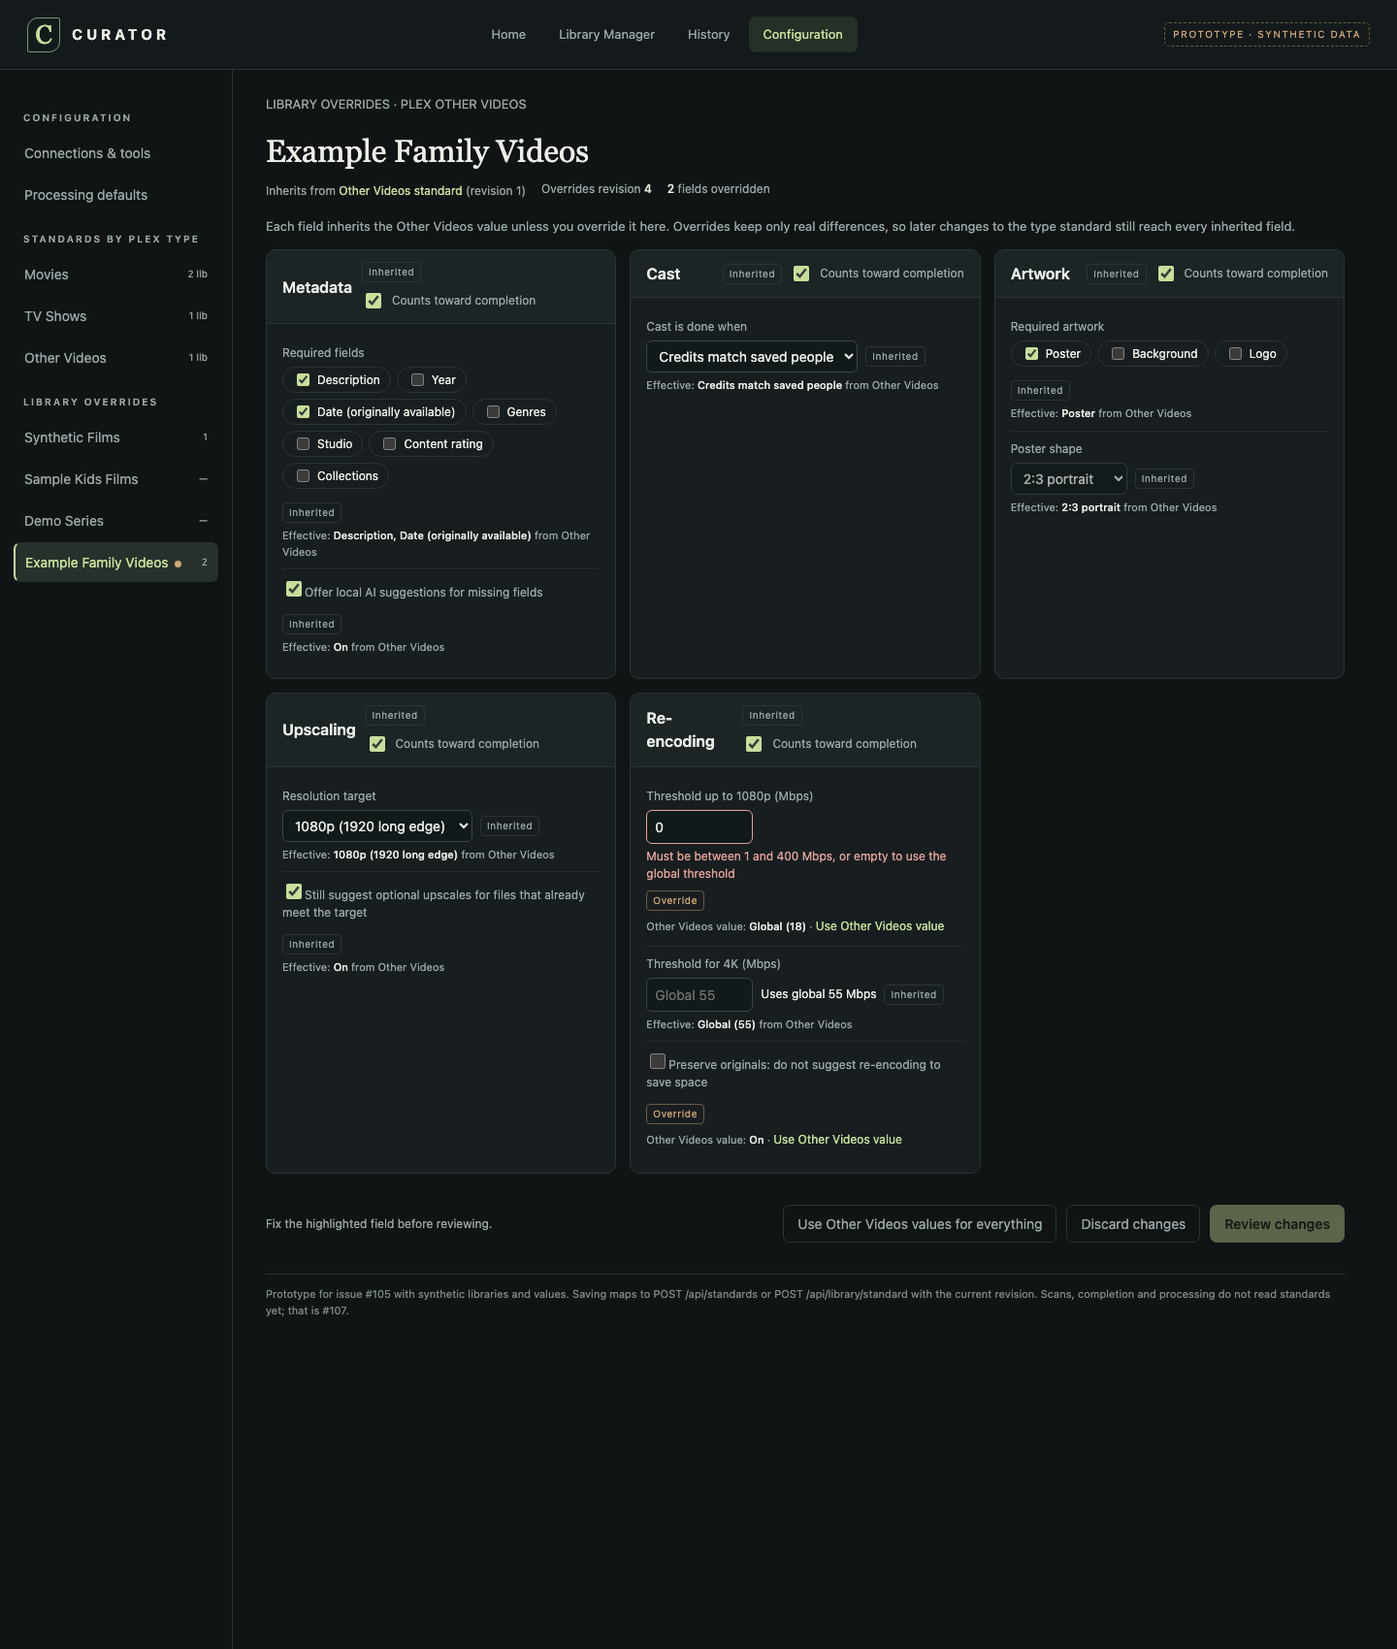
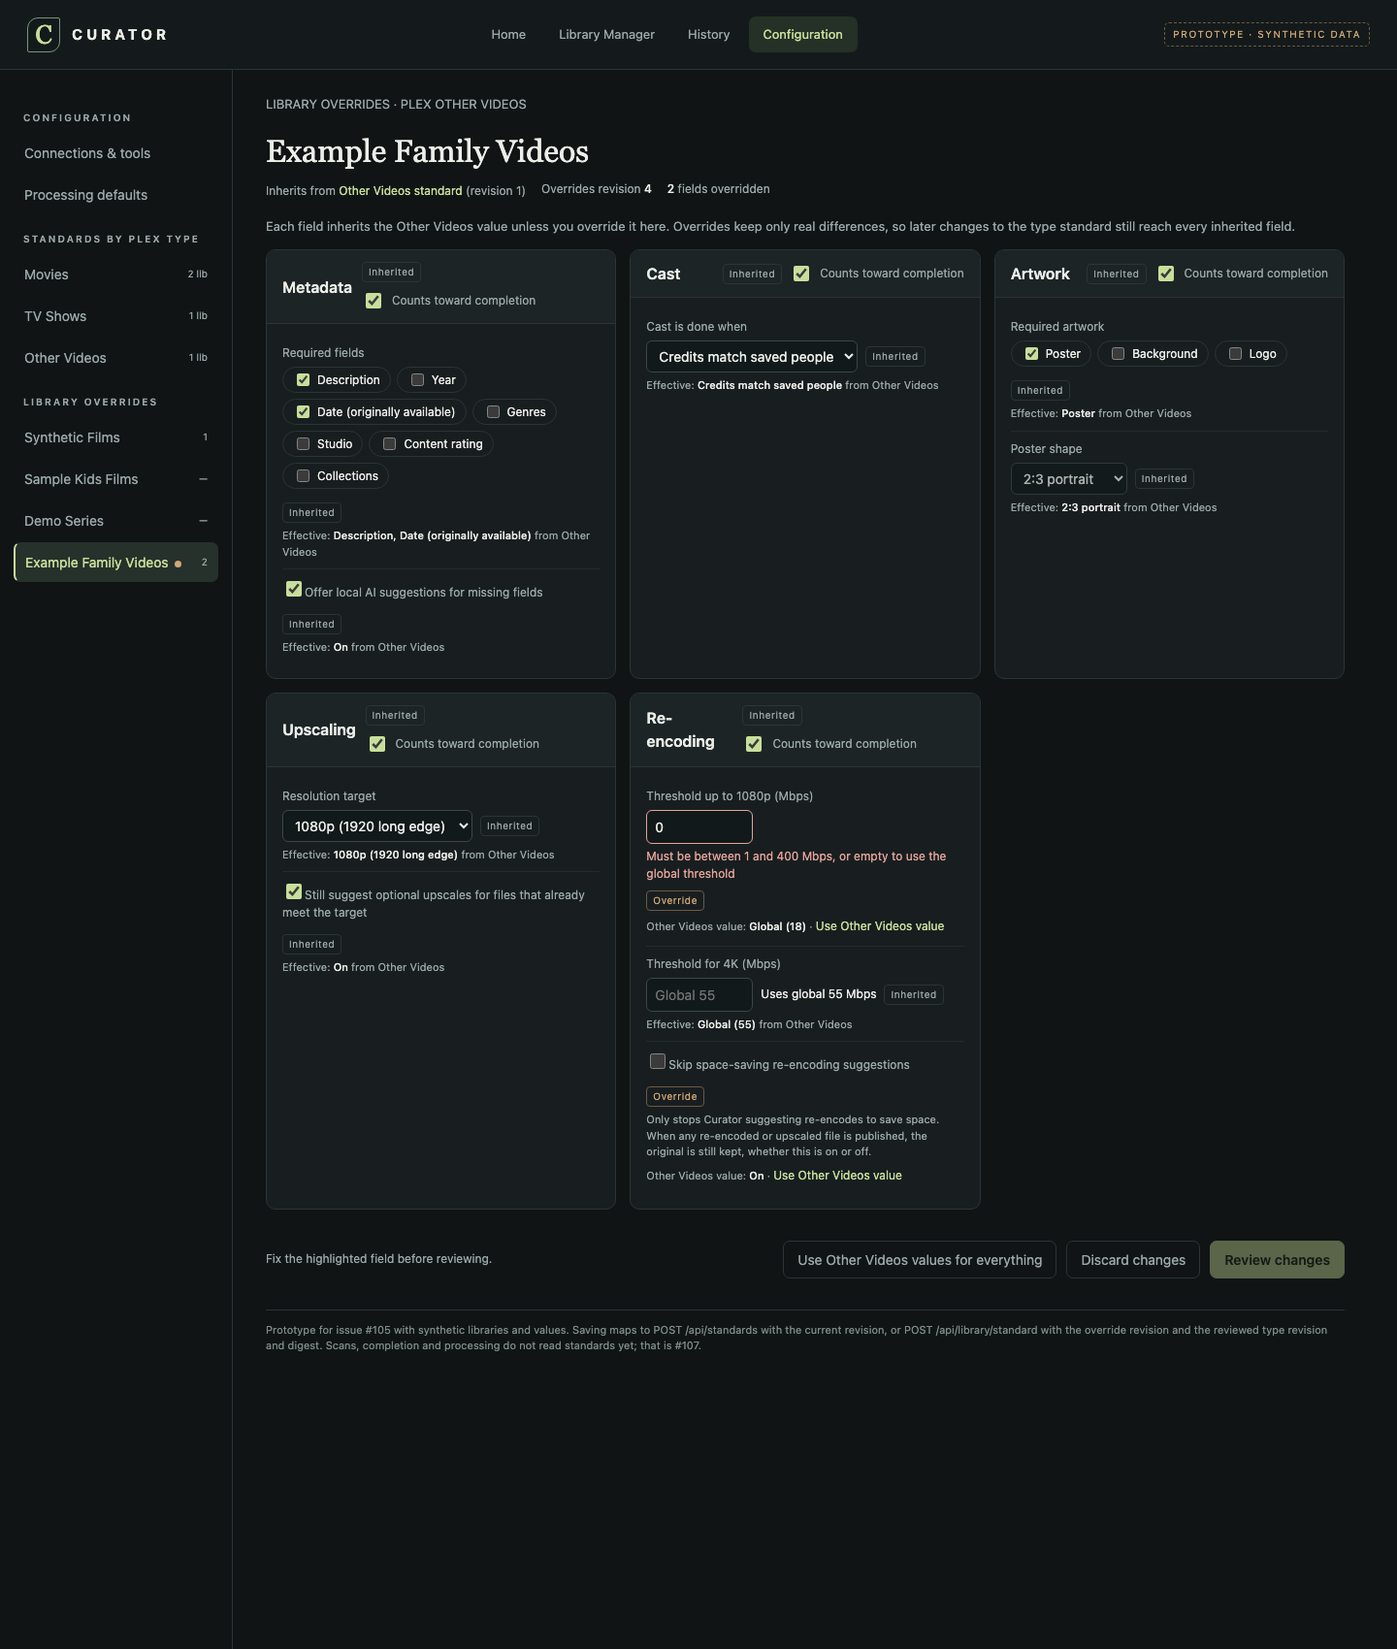
Standards design: separate space-saving suggestions from retention; atomic inherited-standard check on library save (#105)
Addresses Codex review of e14da07: relabel encoding.preserve_originals as
'Skip space-saving re-encoding suggestions' (originals are always retained on
publication), and require the library override save to carry and atomically
check the reviewed type kind, revision and digest, with a libconflict state.

Changed region(s): [[0.1875, 0.6235, 0.9688, 0.8106], [0.5625, 0.6235, 0.5938, 0.6547]]

diff --git a/docs/designs/v2-standards-20261120/prototype.html b/docs/designs/v2-standards-20261120/prototype.html
@@ -70,7 +70,7 @@ const DIMS={
  cast:{title:'Cast',explain:'Credits: Plex credits are present. Known people: credits are matched to people saved in Curator, with portraits.',fields:{mode:{label:'Cast is done when',type:'choice',options:{credits:'Credits are present',known_people:'Credits match saved people'}}}},
  artwork:{title:'Artwork',explain:'Artwork Curator should find or create. Posters are 2:3 for every library type; backgrounds stay 16:9.',fields:{required:{label:'Required artwork',type:'multi',options:ART},poster_ratio:{label:'Poster shape',type:'choice',options:{'2:3':'2:3 portrait'},fixed:true}}},
  upscaling:{title:'Upscaling',explain:'The target is a resolution a finished file should reach. It is not a scale: how much the Topaz filter enlarges the source (1×, 2× or 4×, relative to the source) is a processing default for each library, and the 4096 × 2160 output ceiling still applies.',fields:{target:{label:'Resolution target',type:'choice',options:{'1080':'1080p (1920 long edge)','2160':'2160p (3840 long edge)'}},suggest_when_met:{label:'Still suggest optional upscales for files that already meet the target',type:'bool'}}},
- encoding:{title:'Re-encoding',explain:'A file is suggested for re-encoding when its bitrate is above the threshold. Empty uses the global threshold in Connections & tools.',fields:{max_mbps_1080:{label:'Threshold up to 1080p (Mbps)',type:'mbps',global:'max_mbps_1080'},max_mbps_4k:{label:'Threshold for 4K (Mbps)',type:'mbps',global:'max_mbps_4k'},preserve_originals:{label:'Preserve originals: do not suggest re-encoding to save space',type:'bool'}}},
+ encoding:{title:'Re-encoding',explain:'A file is suggested for re-encoding when its bitrate is above the threshold. Empty uses the global threshold in Connections & tools.',fields:{max_mbps_1080:{label:'Threshold up to 1080p (Mbps)',type:'mbps',global:'max_mbps_1080'},max_mbps_4k:{label:'Threshold for 4K (Mbps)',type:'mbps',global:'max_mbps_4k'},preserve_originals:{label:'Skip space-saving re-encoding suggestions',type:'bool',help:'Only stops Curator suggesting re-encodes to save space. When any re-encoded or upscaled file is published, the original is still kept, whether this is on or off.'}}},
 };
 // ---- Prototype state ----
 let view={page:'type',kind:'movie'},draft=null,base=null,phase='edit',message=null,errors={},pendingNav=null;
@@ -120,6 +120,7 @@ function typePage(main){
   for(const [f,spec] of Object.entries(dim.fields)){
    const overriders=libs.filter(l=>l.overrides[d]&&f in l.overrides[d]);
    body.append(h('div',{class:'field'},spec.type==='bool'?null:h('label',{},spec.label),h('div',{class:'row'},control(d,f,spec,draft[d][f],v=>{draft[d][f]=v;validate();render();},phase!=='edit'),changed(f)?h('span',{class:'tag changed'},'Changed'):null),
+    spec.help?h('div',{class:'effective'},spec.help):null,
     overriders.length?h('div',{class:'effective'},'Overridden by ',h('b',{},overriders.map(l=>l.title).join(', ')),'; changes here do not reach them for this field.'):null));
   }
   card.append(body);grid.append(card);
@@ -144,6 +145,7 @@ function libPage(main){
   if(own('enabled'))body.append(h('div',{class:'effective'},LABELS[kind]+' value: '+(typeVals[d].enabled?'counts toward completion':'not part of done')+' · ',h('button',{class:'link',disabled:phase!=='edit',onclick:()=>reset('enabled')},'Use '+LABELS[kind]+' value')));
   for(const [f,spec] of Object.entries(dim.fields)){
    body.append(h('div',{class:'field'},spec.type==='bool'?null:h('label',{},spec.label),h('div',{class:'row'},control(d,f,spec,eff[d][f],v=>setOwn(f,v),phase!=='edit'),tag(f)),
+    spec.help?h('div',{class:'effective'},spec.help):null,
     own(f)?h('div',{class:'effective'},LABELS[kind]+' value: ',h('b',{},show(typeVals[d][f],spec)),' · ',h('button',{class:'link',disabled:phase!=='edit',onclick:()=>reset(f)},'Use '+LABELS[kind]+' value')):h('div',{class:'effective'},'Effective: ',h('b',{},show(eff[d][f],spec)),' from '+LABELS[kind])));
   }
   card.append(body);grid.append(card);
@@ -154,7 +156,7 @@ function libPage(main){
 function banners(main){
  if(message)main.append(message());
  if(phase==='review'){const rows=changes(),lib=view.page==='lib'?currentLib():null,reach=view.page==='type'?libsOf(view.kind):[];
-  main.append(h('section',{class:'panel'},h('h2',{},'Review changes before saving'),h('p',{class:'sub'},view.page==='type'?'Saving creates revision '+(server.types[view.kind].revision+1)+'. It applies to '+reach.length+' librar'+(reach.length===1?'y':'ies')+' except where a library overrides that field. Nothing is processed or published by saving.':'Saving creates override revision '+(lib.revision+1)+' for '+lib.title+' only. Nothing is processed or published by saving.'),
+  main.append(h('section',{class:'panel'},h('h2',{},'Review changes before saving'),h('p',{class:'sub'},view.page==='type'?'Saving creates revision '+(server.types[view.kind].revision+1)+'. It applies to '+reach.length+' librar'+(reach.length===1?'y':'ies')+' except where a library overrides that field. Nothing is processed or published by saving.':'Saving creates override revision '+(lib.revision+1)+' for '+lib.title+' only, reviewed against the '+LABELS[lib.kind]+' standard at revision '+server.types[lib.kind].revision+'. If that standard changes before you save, nothing is saved and you review again. Nothing is processed or published by saving.'),
    h('table',{},h('thead',{},h('tr',{},h('th',{},'Field'),h('th',{},'Before'),h('th',{},'After'),view.page==='type'?h('th',{},'Libraries affected'):h('th',{},'Source'))),h('tbody',{},...rows.map(r=>h('tr',{},h('td',{},label(r.d,r.f)),h('td',{class:'old'},show(r.before,specOf(r.d,r.f))),h('td',{class:'new'},show(r.after,specOf(r.d,r.f))),
     view.page==='type'?h('td',{},(()=>{const hit=reach.filter(l=>!(l.overrides[r.d]&&r.f in l.overrides[r.d]));const skip=reach.length-hit.length;return (hit.map(l=>l.title).join(', ')||'None')+(skip?' · '+skip+' keep their override':'');})()):h('td',{},r.inherit?'Inherited from '+LABELS[lib.kind]:'Override')))))));}
 }
@@ -164,10 +166,11 @@ function actions(main,extra){
  main.append(h('div',{class:'actions'},h('span',{class:'status'},status),extra,
   phase==='review'?h('button',{onclick:()=>{phase='edit';render();}},'Back to editing'):h('button',{class:'subtle',disabled:!d,onclick:()=>{draft=clone(base);errors={};message=null;render();}},'Discard changes'),
   phase==='review'?h('button',{class:'primary',onclick:save},'Save '+(view.page==='type'?LABELS[view.kind]+' standard':'overrides')):h('button',{class:'primary',disabled:!valid,onclick:review},'Review changes')));
- main.append(h('p',{class:'note'},'Prototype for issue #105 with synthetic libraries and values. Saving maps to POST /api/standards or POST /api/library/standard with the current revision. Scans, completion and processing do not read standards yet; that is #107.'));
+ main.append(h('p',{class:'note'},'Prototype for issue #105 with synthetic libraries and values. Saving maps to POST /api/standards with the current revision, or POST /api/library/standard with the override revision and the reviewed type revision and digest. Scans, completion and processing do not read standards yet; that is #107.'));
 }
 function review(){if(!validate()){render();return;}if(!changes().length){message=()=>h('div',{class:'banner info'},h('p',{},'Nothing changed, so there is nothing to save. The standard stays at revision '+(view.page==='type'?server.types[view.kind].revision:currentLib().revision)+'.'));render();return;}phase='review';message=null;render();}
 function save(){
+ if(scenario==='libconflict'){const lib=currentLib(),k=lib.kind,next=server.types[k].revision+1;message=()=>h('div',{class:'banner warn'},h('p',{},h('b',{},'The '+LABELS[k]+' standard changed while you were reviewing.'),' Revision '+next+' was saved after you reviewed against revision '+server.types[k].revision+', so the inherited values you checked may be different now. Nothing was saved and your overrides are still here. Reload to see the new inherited values, then review again.'),h('button',{onclick:()=>{server.types[k]={revision:next,values:(()=>{const v=clone(server.types[k].values);v.metadata.required=[...v.metadata.required,'studio'];return v;})()};message=null;phase='review';render();}},'Reload '+LABELS[k]+' revision '+next));phase='edit';render();return;}
  if(scenario==='conflict'){message=()=>h('div',{class:'banner warn'},h('p',{},h('b',{},'This standard changed in another window.'),' Revision 4 was saved after you opened revision 3. Your edits are still here and nothing was saved. Reload revision 4 to see what changed, then reapply your edits and review again.'),h('button',{onclick:()=>{message=null;phase='edit';render();}},'Reload revision 4'));phase='edit';render();return;}
  if(view.page==='type'){server.types[view.kind]={revision:server.types[view.kind].revision+1,values:clone(draft)};}else{const lib=currentLib();lib.overrides=clone(draft);lib.revision++;}
  load();message=()=>h('div',{class:'banner ok'},h('p',{},'Saved. '+(view.page==='type'?LABELS[view.kind]+' standard is now revision '+server.types[view.kind].revision+'.':currentLib().title+' overrides are now revision '+currentLib().revision+'.')+' No processing was started.'));render();
@@ -182,6 +185,7 @@ const S={
  libreview:()=>{view={page:'lib',lib:'lib-films'};load();delete draft.artwork;draft.metadata={required:['summary','year','genres','content_rating']};phase='review';},
  noop:()=>{view={page:'type',kind:'show'};load();review();},
  error:()=>{view={page:'lib',lib:'lib-family'};load();draft.encoding.max_mbps_1080=0;validate();},
+ libconflict:()=>{view={page:'lib',lib:'lib-films'};load();delete draft.artwork;phase='review';save();},
  conflict:()=>{view={page:'type',kind:'movie'};load();draft.metadata.required=['summary','year','genres','studio'];phase='review';save();},
  leave:()=>{view={page:'type',kind:'movie'};load();draft.cast.enabled=true;},
 };

diff --git a/docs/designs/v2-standards-20261120/README.md b/docs/designs/v2-standards-20261120/README.md
@@ -1,10 +1,10 @@
 # Standards configuration — proposed design, 2026-11-20
 
-Design for issue #105. **Status: proposed, awaiting operator approval.** This package holds a static prototype with synthetic data and its renders. It is not served by Curator, calls no API, and authorizes no implementation; #109 implements it after approval.
+Design for issue #105. **Status: operator approved the desktop direction on 2026-11-21 ("this looks good"); review corrections below are pending exact-head cross-review.** This package holds a static prototype with synthetic data and its renders. It is not served by Curator, calls no API, and authorizes no implementation; #109 implements it after approval.
 
 Baseline: v2 `146d6ede13fe28befe76bcf9c8c4f57c32061ffa`. Model and API: [library standards](../../curator-v2-standards.md). The field mapping is recorded there under "Configuration screen".
 
-Open `prototype.html` in a browser. `#s=` picks a scenario: `type`, `library`, `unsaved`, `review`, `libreview`, `noop`, `error`, `conflict`, `leave`. Every name, value and revision in it is synthetic.
+Open `prototype.html` in a browser. `#s=` picks a scenario: `type`, `library`, `unsaved`, `review`, `libreview`, `noop`, `error`, `conflict`, `libconflict`, `leave`. Every name, value and revision in it is synthetic.
 
 ## Renders
 
@@ -18,6 +18,7 @@ Open `prototype.html` in a browser. `#s=` picks a scenario: `type`, `library`, `
 | [noop.png](noop.png) | Reviewing with no changes: nothing is saved and the revision stays the same |
 | [error.png](error.png) | An invalid threshold: inline message, Review disabled until fixed |
 | [conflict.png](conflict.png) | Stale revision: someone saved revision 4 in another window. Edits are kept, nothing is saved, Reload revision 4 |
+| [libconflict.png](libconflict.png) | The type standard changed while library overrides were being reviewed: nothing is saved, overrides are kept, Reload Movies revision 4 and review again |
 | [leave.png](leave.png) | Leaving with unsaved changes asks Keep editing / Discard changes |
 | [phone-library.png](phone-library.png) | 390 px wide: tabs and sections scroll horizontally, cards stack, actions stay reachable |
 
@@ -29,15 +30,17 @@ Open `prototype.html` in a browser. `#s=` picks a scenario: `type`, `library`, `
 4. **Review then save.** Saving always goes through a review table (field, before, after, and which libraries are affected or the source). A type save names the libraries it reaches and those that keep an override. The save always says that nothing is processed or published.
 5. **No-op.** Review with no changes saves nothing and keeps the revision. The API is never called for a no-op.
 6. **Stale revision.** The API's revision check surfaces as a warning that keeps the edits and offers **Reload revision N**. It is never silently overwritten. Reapplying edits onto the newer revision is manual in this design.
+   A library save also depends on the type standard it inherits from. Its review names the type revision it was checked against ("reviewed against the Movies standard at revision 3"). If the type standard, or the library's Plex type, changes before saving, the server refuses the save atomically, nothing is saved, the overrides are kept, and the page offers **Reload Movies revision N** and a fresh review. A browser re-fetch alone is not the guarantee; see the save contract in the standards document.
 7. **Errors.** Field errors use the API's messages inline, with Review disabled. A server refusal on save is shown as a banner and keeps the edits.
 8. **Unsaved changes.** Changed tags, a sidebar dot, a status count, and a Keep editing / Discard prompt when leaving the page.
 9. **Upscaling target vs. scale.** The card states that the target is a resolution goal (1080p or 2160p), not a scale. The Topaz scale (1×, 2×, 4×, relative to the source) stays in Processing defaults, and the 4096 × 2160 output ceiling still applies.
 10. **Posters** are fixed at 2:3 (operator decision, 2026-11-19), shown read-only.
-11. **Thresholds.** An empty encoding threshold shows **Uses global N Mbps**, taken from Connections & tools.
+11. **Space-saving re-encoding.** The field stored as `encoding.preserve_originals` is labelled **Skip space-saving re-encoding suggestions**. It only stops Curator suggesting re-encodes to save space. It is not a retention or deletion switch: publishing any re-encoded or upscaled file still keeps the original, whether it is on or off.
+12. **Thresholds.** An empty encoding threshold shows **Uses global N Mbps**, taken from Connections & tools.
 
 ## Questions for the operator
 
-- **"Preserve originals"** is worded here as "do not suggest re-encoding to save space". It is the Other Videos default and matches today's per-file "preserve quality". Confirm this meaning, or describe the one you want, before #107 starts reading it.
+- **Space-saving re-encoding (for #107).** Relabelled per review (decision 11). Still open for #107: whether it suppresses only bitrate-driven suggestions or every re-encode suggestion, and how it relates to today's per-file "preserve quality" choice. The stored field name stays `preserve_originals` for API compatibility.
 - **Applying edits after a conflict.** Reload-then-reapply is manual. Is that enough, or should Curator offer to carry your edits onto the newer revision (still reviewed before saving)?
 - **Completion counts.** Should the type page show how many items currently meet each dimension? That needs #107's evaluation first, so it is left out here.
 

diff --git a/docs/curator-v2-standards.md b/docs/curator-v2-standards.md
@@ -51,7 +51,7 @@ Repeated cleanup choices may later be offered as explicit changes to a standard.
 
 ## Configuration screen (proposed, #105)
 
-The proposed design is in [docs/designs/v2-standards-20261120](designs/v2-standards-20261120/README.md). It awaits operator approval, and #109 implements it. The UI uses the existing API without changes:
+The proposed design is in [docs/designs/v2-standards-20261120](designs/v2-standards-20261120/README.md). The operator approved the desktop direction on 2026-11-21; #109 implements it. The UI uses the existing API, except for the library save contract below, which #109 must add:
 
 | UI element | API field / behaviour |
 | --- | --- |
@@ -62,16 +62,27 @@ The proposed design is in [docs/designs/v2-standards-20261120](designs/v2-standa
 | Cast "done when" | `cast.mode`: `credits` / `known_people` |
 | Artwork required / poster shape (fixed 2:3) | `artwork.required` (poster, background, logo) / `artwork.poster_ratio` |
 | Upscaling resolution target / still suggest when met | `upscaling.target` (`1080`, `2160`) / `upscaling.suggest_when_met` |
-| Re-encoding thresholds (empty = global) / preserve originals | `encoding.max_mbps_1080`, `encoding.max_mbps_4k` (`null` = global config value) / `encoding.preserve_originals` |
+| Re-encoding thresholds (empty = global) / Skip space-saving re-encoding suggestions | `encoding.max_mbps_1080`, `encoding.max_mbps_4k` (`null` = global config value) / `encoding.preserve_originals` (legacy name; suggestions only, never retention) |
 | Reset form to Curator defaults | `types[kind].defaults`; form only, saved through review |
 | Save type standard | `POST /api/standards {kind, revision, values}` (full standard) |
 | Library page effective value | `libraries[id].values` (type values merged with overrides) |
 | Inherited / Override tag; Use <Type> value | the field is absent from / present in `libraries[id].overrides[dimension]`; reset removes it |
-| Save library overrides | `POST /api/library/standard {library, revision, overrides}` (full override set) |
+| Save library overrides | `POST /api/library/standard {library, revision, kind, type_revision, type_digest, overrides}` (full override set plus the inherited snapshot that was reviewed; see below) |
 | Overrides revision | `libraries[id].revision` (`standard_revision`) |
 | No-op | the review finds no difference; no request is sent |
 | Stale revision warning | API error "This standard changed in another window; reload before saving" (or the library variant) |
+| Inherited standard changed during review | API error "The <Type> standard changed while you were reviewing; reload and review again"; overrides kept, nothing saved |
 | Inline field errors | API validation messages, also checked in the browser before review |
+
+### Library override save contract (required for #109)
+
+The library review shows effective values, which depend on the inherited type standard. Today `save_library_overrides` checks only the library's own `standard_revision` and then normalizes against the *latest* type values, so a type change saved in another window between review and save would silently change what the reviewed inheritance and resets mean. #109 must make the reviewed inheritance part of the save:
+
+- The request carries `kind` (the Plex type the library was reviewed as), `type_revision` (that type standard's revision shown in the review) and `type_digest` (SHA-256 of the canonical JSON of the type values the review was computed from). `GET /api/standards` returns the digest with each type so the client never computes it from its own copy.
+- Inside the same store transaction as the override write, the server recomputes the library's current kind, the type's current revision and the digest of its current values. Any difference refuses the save with the "inherited standard changed" error. Overrides are normalized only against the type values that matched.
+- The digest also catches built-in defaults that change in a Curator update while a type is still at revision 0, and a library whose Plex type changed (#92).
+- A client-side re-fetch before saving is a convenience, not the guarantee. The atomic server check is.
+- A type standard save does not need the library snapshots: its review lists the libraries it reaches for information, and the per-field override semantics are unchanged by a concurrent library save.
 
 ## Schema versioning
 
